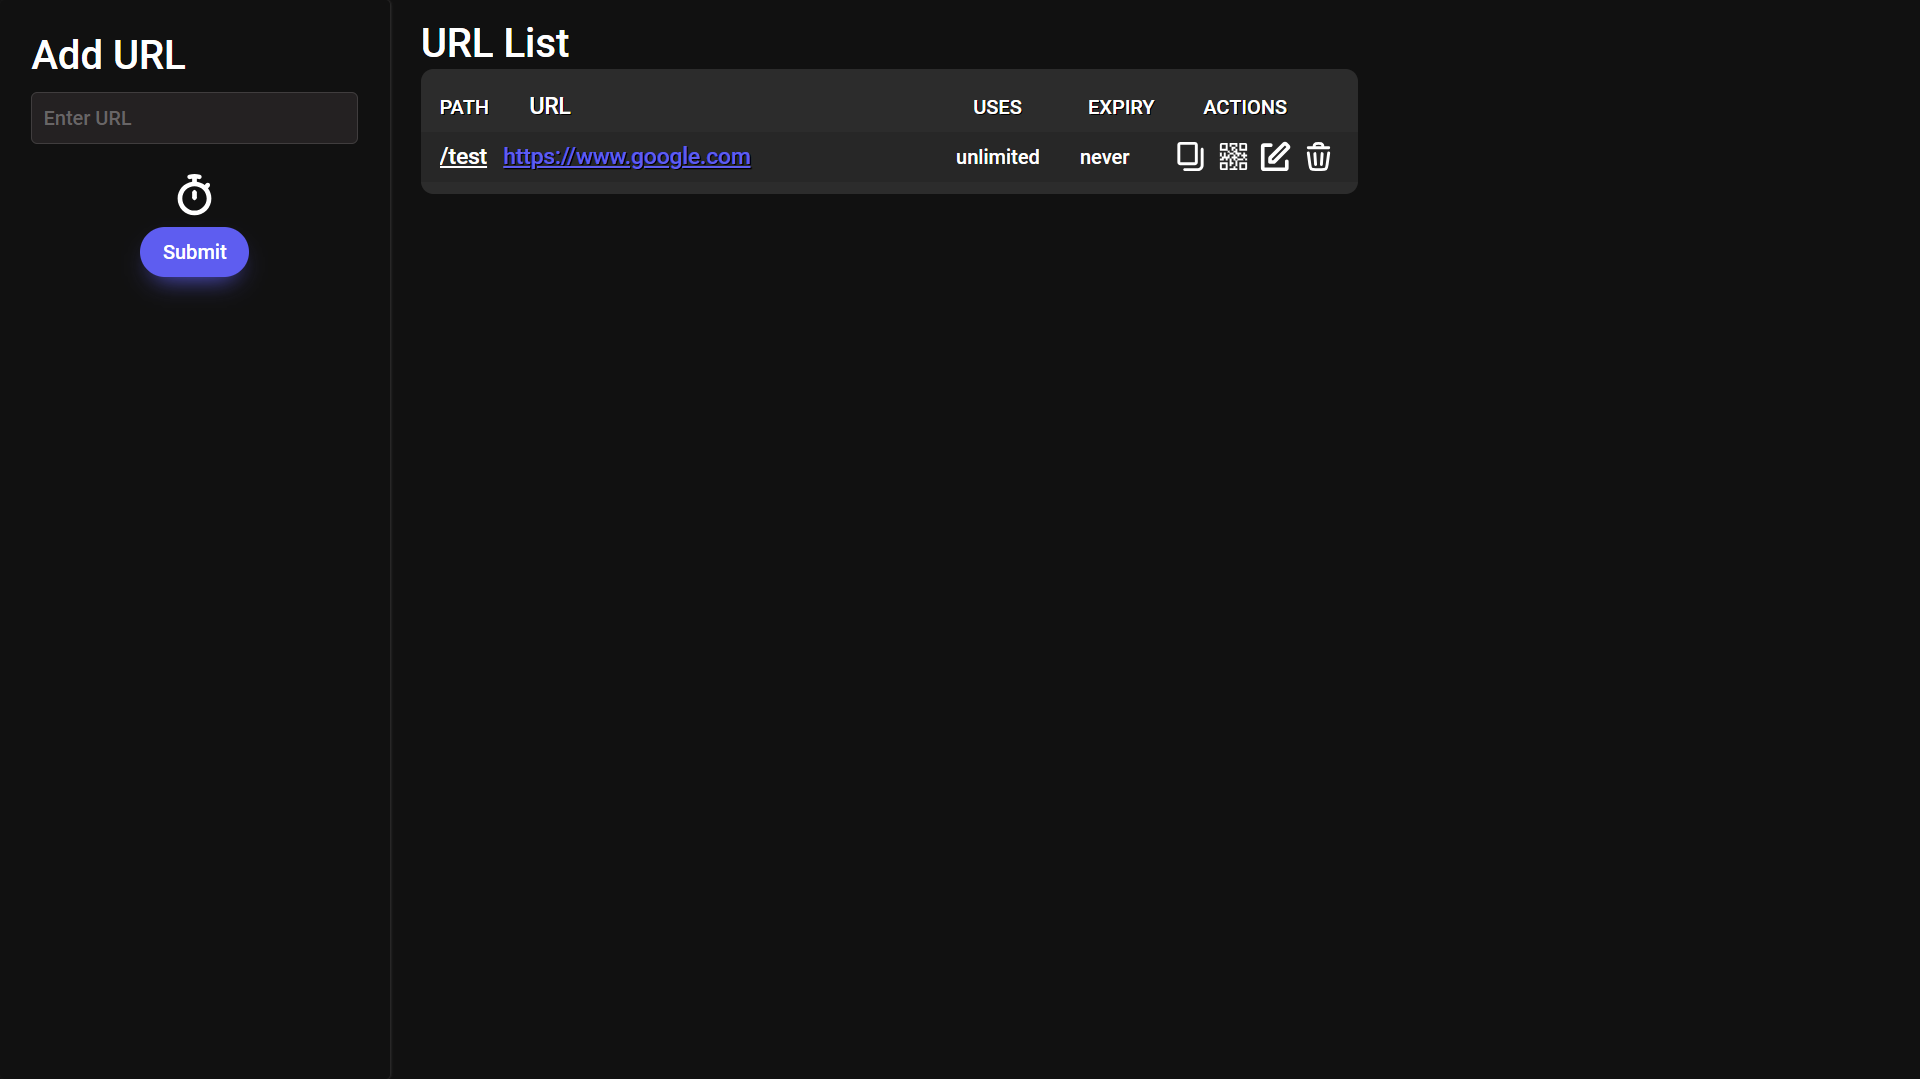
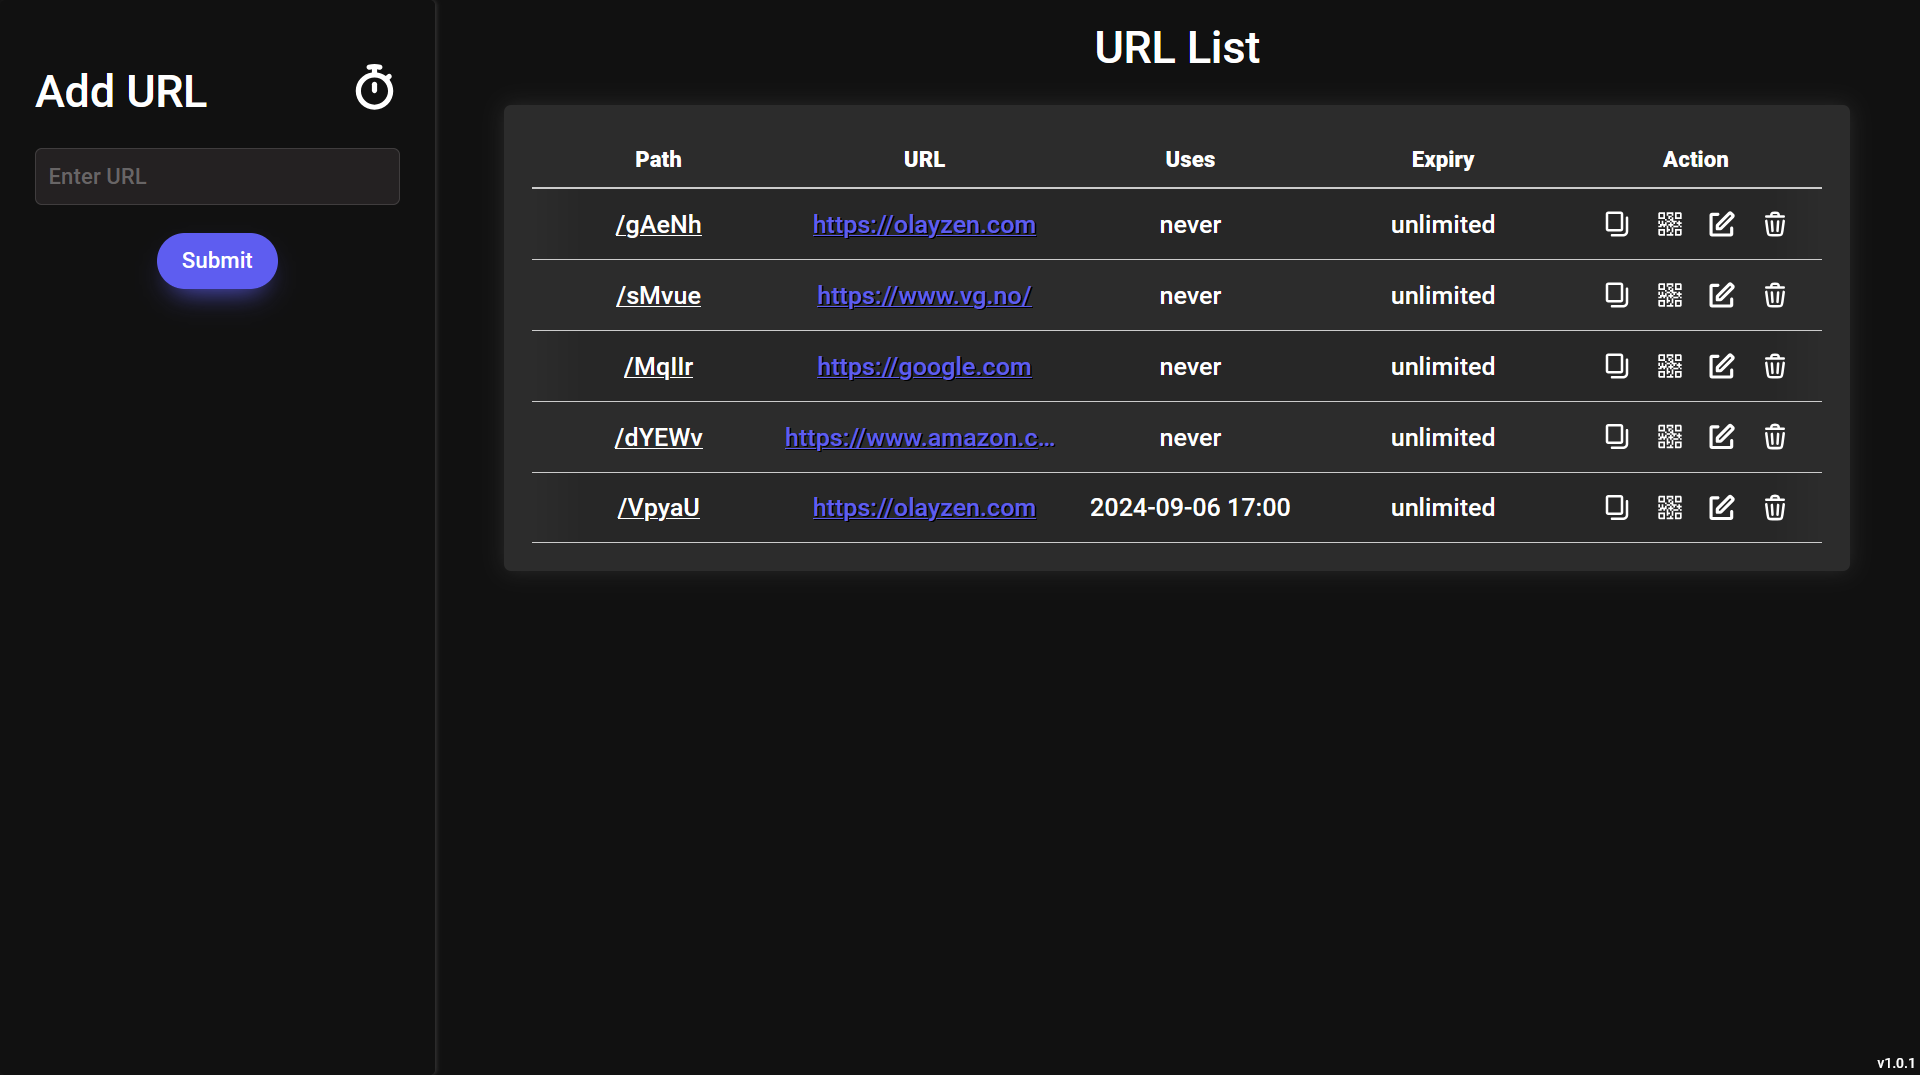
New Images. Fixed color issue

diff --git a/static/style.css b/static/style.css
@@ -466,11 +466,15 @@ p.version {
     font-size: 10px;
 }
 
+.addUrlHeader{
+    color: white;
+}
+
 @media (prefers-color-scheme: light) {
     :root{
         --primary-color: #fff;
     }
-    a, p.version, .urlEndpoint, .boxBox , .urlListContainer > a, body > div > div > div.endpointListContainer > p,#endpointList, #endpointList > li:nth-child(1) > div > div.urlContainer > a ,body > div > div > div.addUrlContainer > div > form > h1 {
+    a, .addUrlHeader, p.version, .urlEndpoint, .boxBox , .urlListContainer > a, body > div > div > div.endpointListContainer > p,#endpointList, #endpointList > li:nth-child(1) > div > div.urlContainer > a ,body > div > div > div.addUrlContainer > div > form > h1 {
         color: #000 !important;
     }
     div.addUrlContainer {

diff --git a/templates/index.html b/templates/index.html
@@ -13,8 +13,8 @@
         <div class="addUrlContainer">
             <div class="charlesLeclerc">
                 <form method="POST" action="/" class="addUrlFormContainer">
-                    <div style="display: flex;color: black;flex-direction: row;align-items: center;justify-content: space-between;">
-                        <h1>Add URL</h1>
+                    <div style="display: flex;flex-direction: row;align-items: center;justify-content: space-between;">
+                        <h1 class="addUrlHeader">Add URL</h1>
                         <img class="iconTimer" src="{{ url_for('static', filename='img/timer.svg') }}" alt="Remove" onclick="setExpiry()">
                     </div>
                     <div class="enterUrlContainer">
